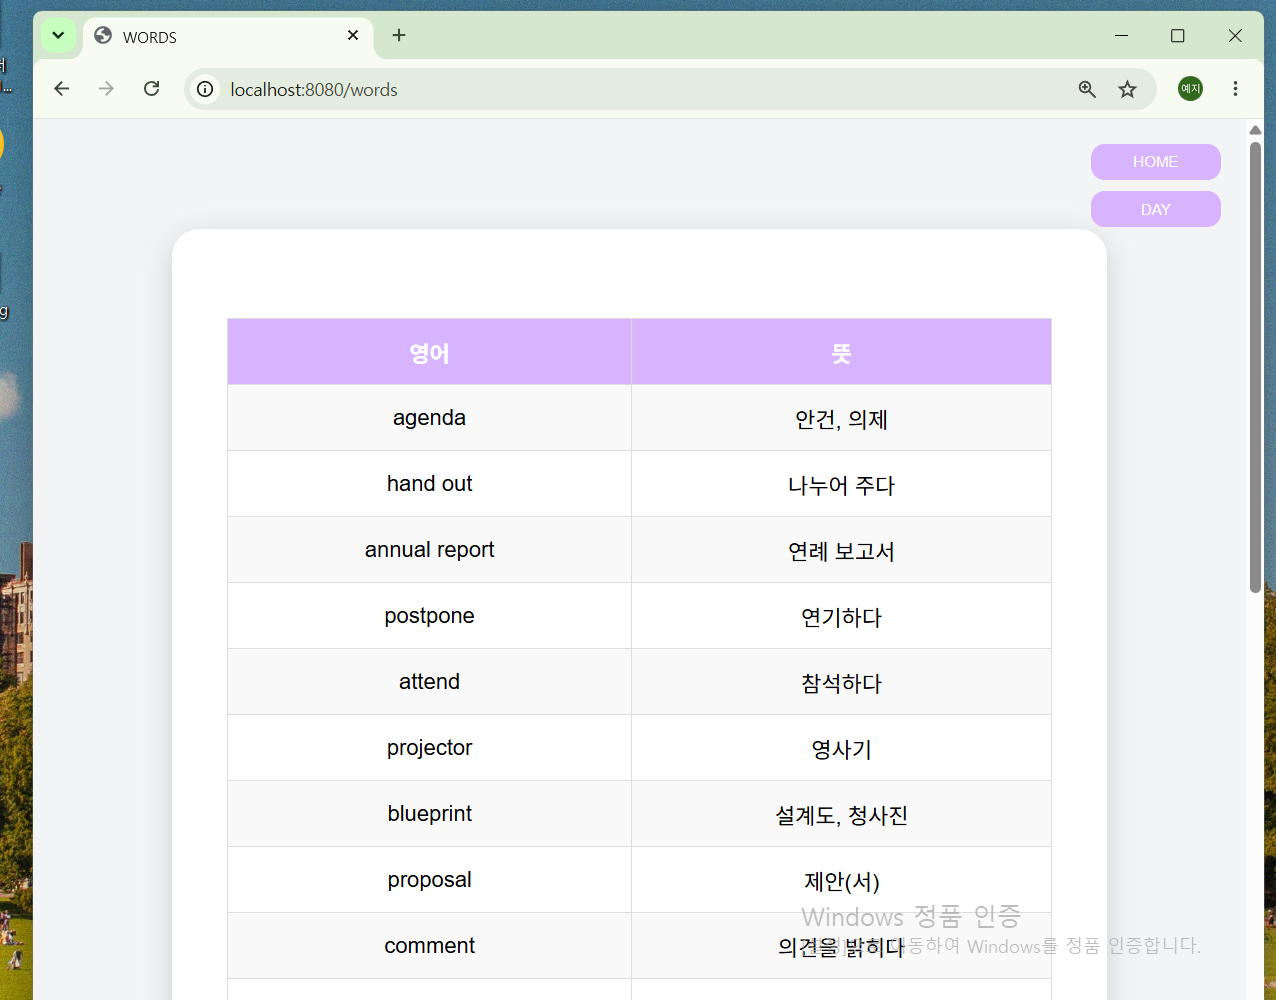
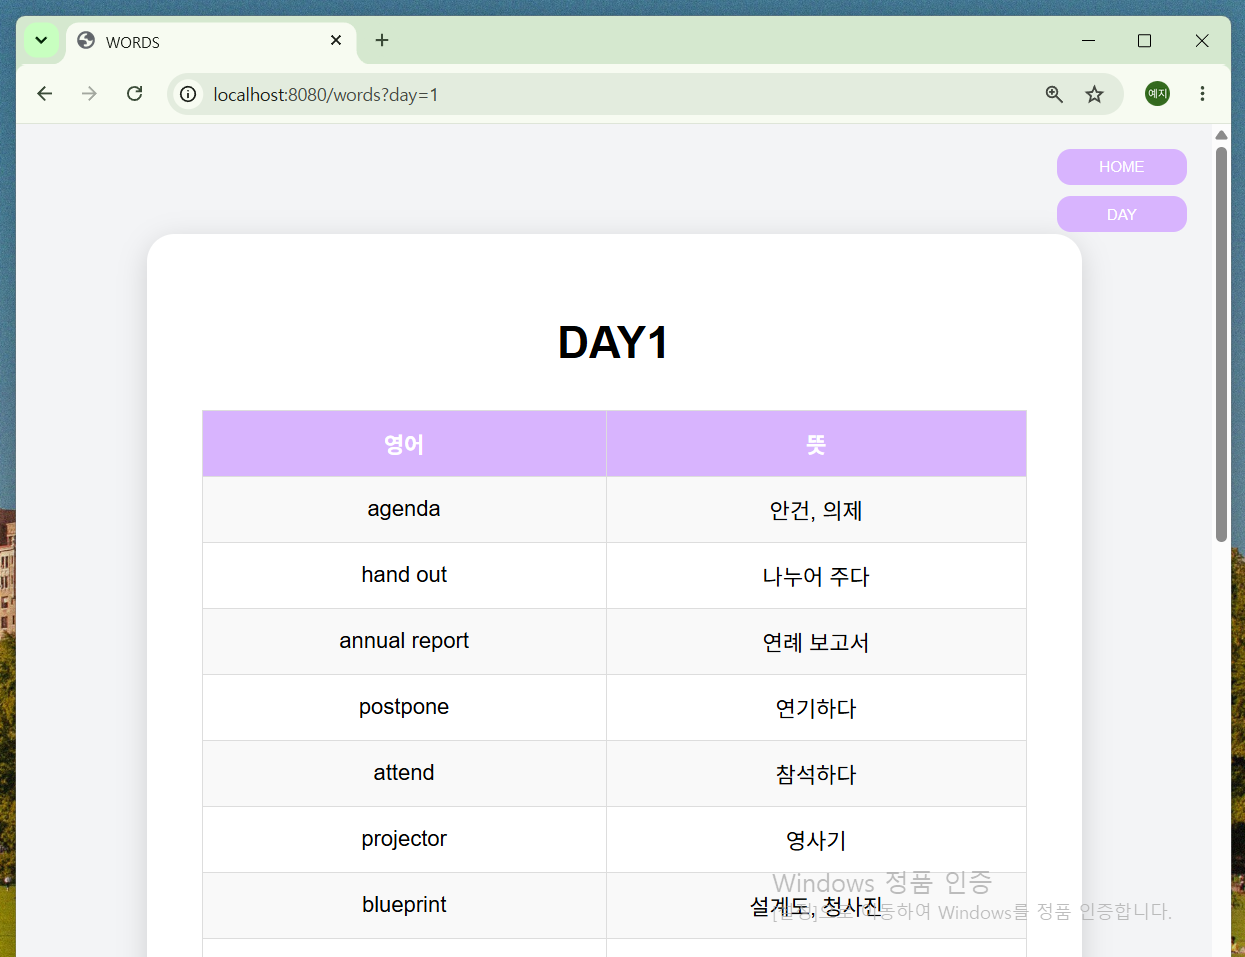
update screenshots

diff --git a/src/main/resources/templates/words.html b/src/main/resources/templates/words.html
@@ -16,6 +16,8 @@
     <a class="btn" href="/day?type=words">DAY</a>
     </div>
 
+    <h1>DAY<span th:text="${day}"></h1>
+
     <table>
         <tr>
             <th>영어</th>